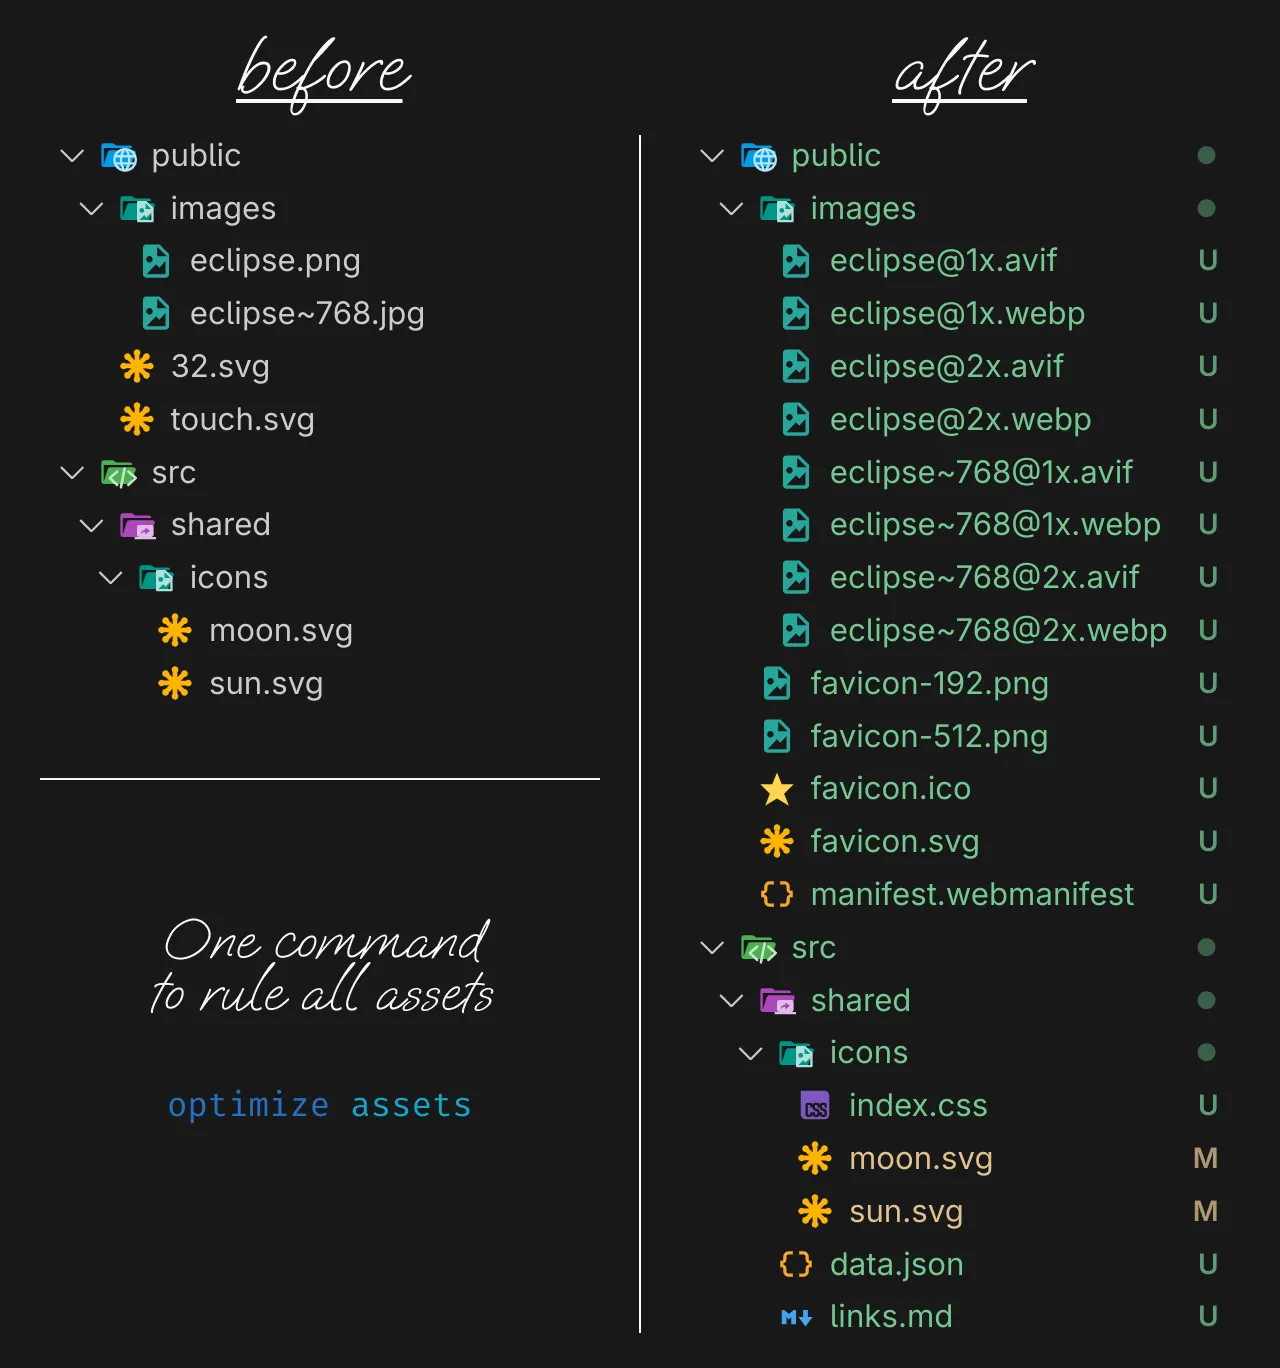
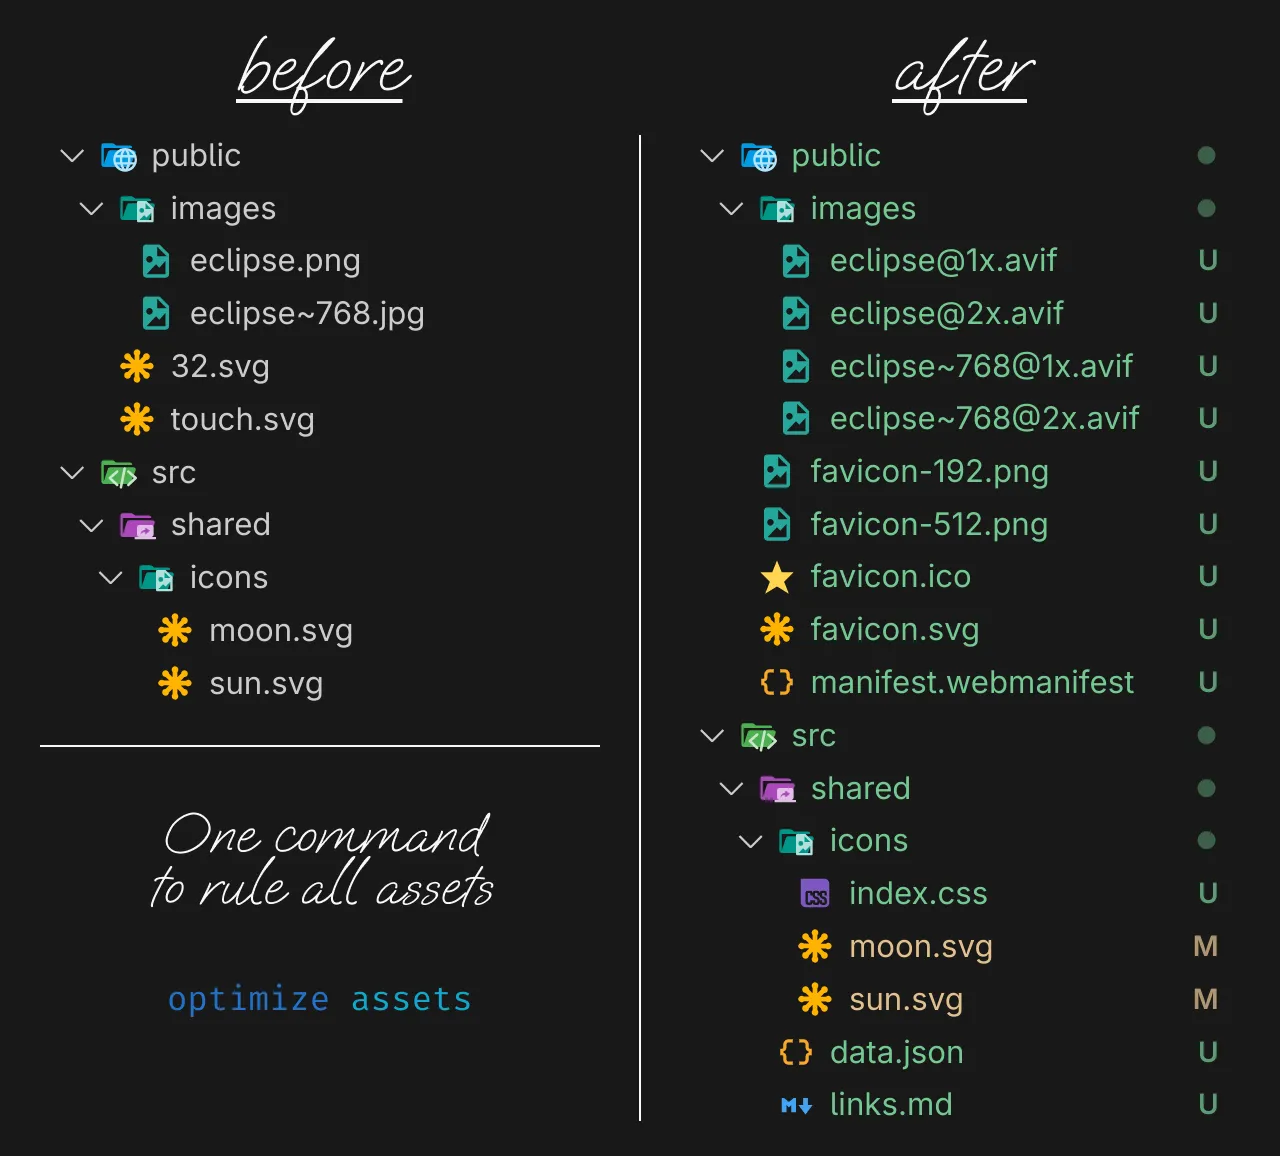
Remove `webp` from defaults

diff --git a/src/lib/constants.ts b/src/lib/constants.ts
@@ -55,7 +55,7 @@ export const CLI_HELP: Record<`main` | `assets` | `images`, string> = {
             Pixel density in dppx of the raw raster images
             (0 means 1, but without adding the density suffix to the filename)
 
-    -f, --target-formats         (default: ["avif", "webp"])
+    -f, --target-formats         (default: "avif")
             Output raster image formats
             (to specify multiple formats, specify an option for each)
 

diff --git a/src/bin/cli.ts b/src/bin/cli.ts
@@ -67,7 +67,7 @@ async function createAssetsCli (): Promise<void> {
 					"type": `string`,
 					"shortFlag": `f`,
 					"isMultiple": true,
-					"default": [`avif`, `webp`],
+					"default": [`avif`],
 				},
 				removeOrigin: {
 					"type": `boolean`,

diff --git a/README.md b/README.md
@@ -63,7 +63,7 @@ Comprehensive optimization of all graphic assets for frontend projects. Conver
 `-p`, `--public-directory`                 | `./public/`       | Path to the directory with static assets
 `-s`, `--shared-directory`                 | `./src/shared/`   | Path to the directory with shared files
 `-d`, `--origin-density`                   | `2`               | Pixel density in dppx of the raw raster images (`0` works like `1`, but without adding the density suffix to the filename)
-`-f`, `--target-formats`                   | `[avif,webp]`     | Output raster image formats (to specify multiple formats, specify an option for each)
+`-f`, `--target-formats`                   | `avif`            | Output raster image formats (to specify multiple formats, specify an option for each)
 `-r`, `--remove-origin`                    | `true`            | Remove the original raster files after successful processing
 `-m`, `--add-meta-data`                    | `true`            | Add metadata of the raster images to `data.json` file and generate CSS file for the icons
 `-u`, `--unregistered`                     | `false`           | Generate unregistered (regular) custom properties for the icons in `:root` instead of `@property` rules.
@@ -78,7 +78,7 @@ Comprehensive optimization of all graphic assets for frontend projects. Conver
 >
 > #### Exporting raster layers from mockups
 >
-> If you have finally managed to give up old formats (such as JPG and PNG) and use only modern Avif and Webp, it is better to export raster layers from Figma or Penpot only to PNG. JPG adds artifacts on them. Avoid unnecessary quality loss.
+> If you have finally managed to give up old formats (such as JPG and PNG) and use only modern Avif (and/or Webp), it is better to export raster layers from Figma or Penpot only to PNG. JPG adds artifacts on them. Avoid unnecessary quality loss.
 
 > [!TIP]
 >

diff --git a/CHANGELOG.md b/CHANGELOG.md
@@ -7,6 +7,10 @@ The format is based on [Keep a Changelog](https://keepachangelog.com), and 
 
 ## [Unreleased]
 
+### Changed
+
+- The default value for the `--target-formats` (`-f`) option of the `assets` command is now `avif`, because the Avif format has achieved _Baseline Widely Available_ status. If you are not yet able to stop using WebP as a fallback for Avif, specify both formats: `optimize assets -f avif -f webp`.
+
 ## [5.2.2] — 2026–07–02
 
 ### Fixed
